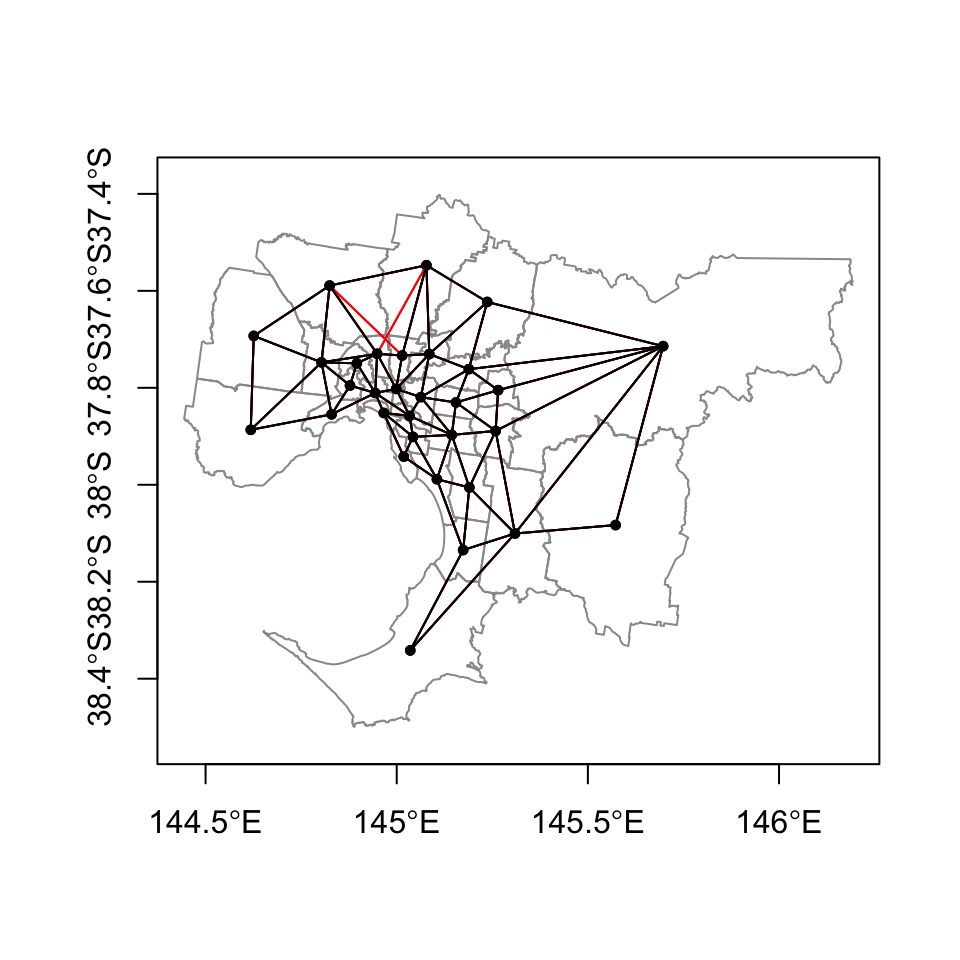
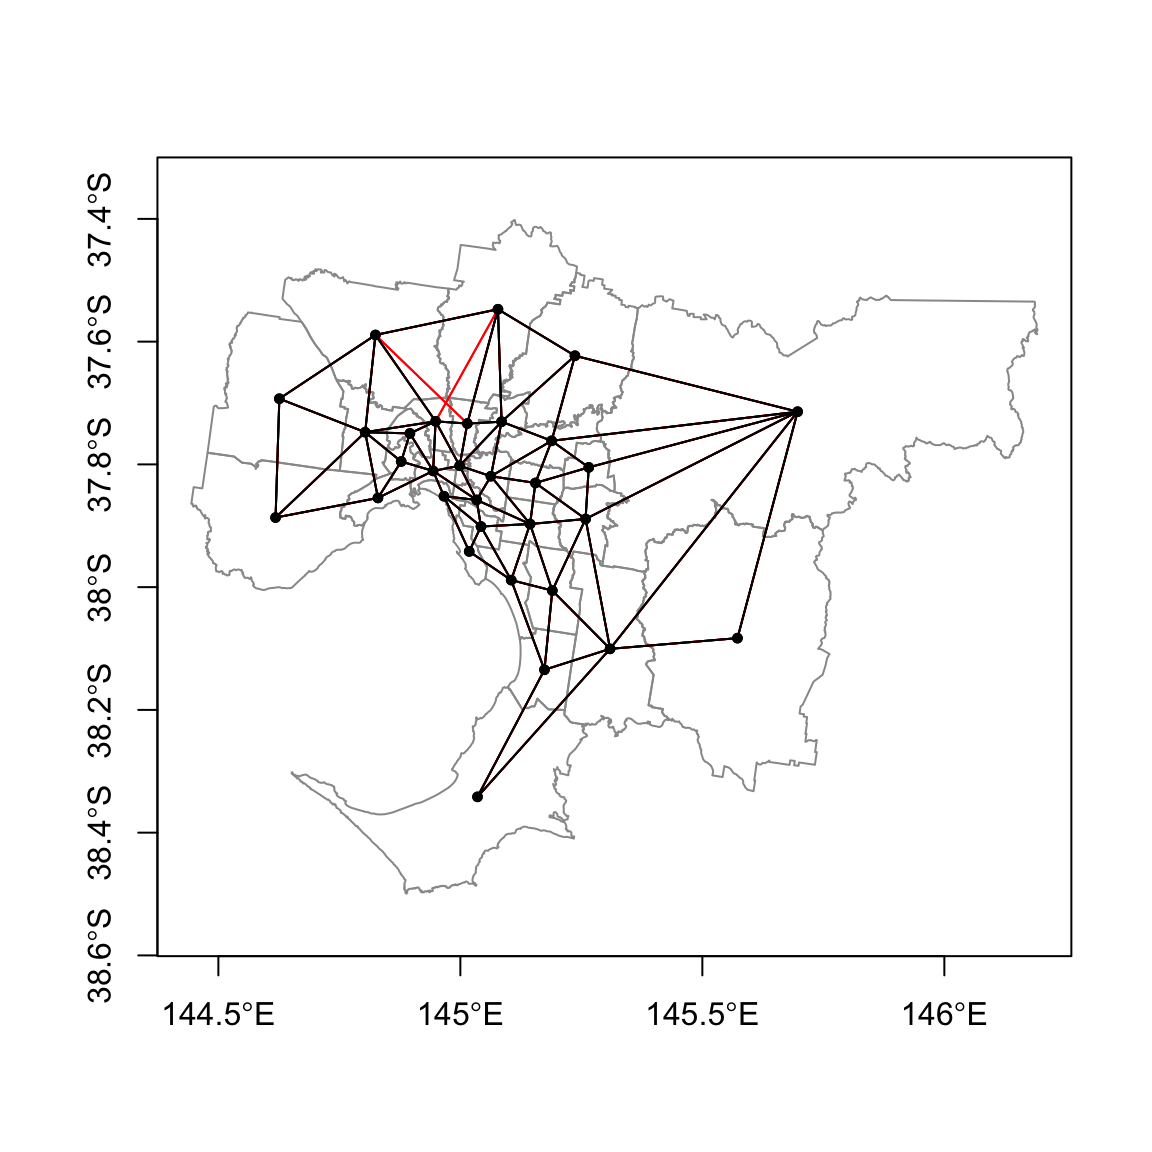
Dec 4th

diff --git a/Week5.html b/Week5.html
@@ -355,7 +355,7 @@ Wrook = poly2nb(gmel.sp, queen=FALSE)
 plot(gmel.sp,border=&quot;grey60&quot;, axes=TRUE)
 plot(Wqueen, coordinates(gmel.sp), pch=19, cex=0.6, add=TRUE,col=&quot;red&quot;)
 plot(Wrook, coordinates(gmel.sp), pch=19, cex=0.6, add=TRUE)</code></pre>
-<p><img src="Week5_files/figure-html/unnamed-chunk-2-1.png" width="480" style="display: block; margin: auto;" /></p>
+<p><img src="Week5_files/figure-html/unnamed-chunk-2-1.png" width="576" style="display: block; margin: auto;" /></p>
 <ul>
 <li>There are three potential class for spatial weight matrix: <em>nb</em> (neighborhood) class, <em>mat</em> (matrix) class, and <em>listw</em> class.
 <ul>
